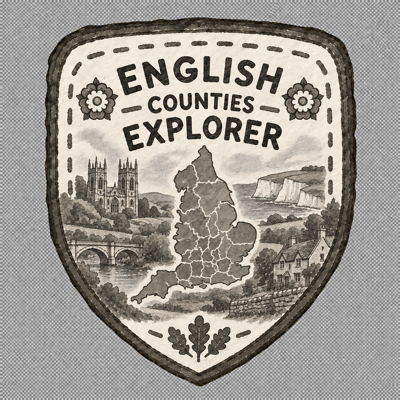
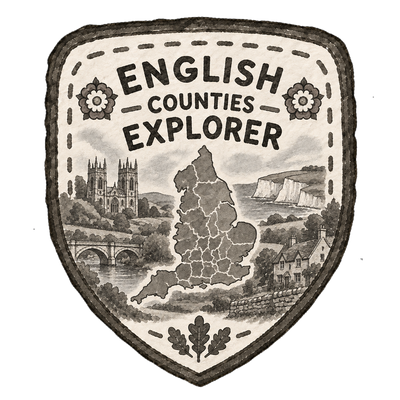
Strip opaque backgrounds from the five badges exported without alpha

diff --git a/badges/README.md b/badges/README.md
@@ -41,6 +41,12 @@ than fatal.
 The `main` branch, deliberately — this is unrelated to the `collections`
 migration, so the URL does not have to change when that merges.
 
-Downloads are cached to disk on the device and never re-fetched, because the
-filename is the identity. **Changing an image in place will not reach phones
-that already have it** — ship a redraw under a new id, or bump the filename.
+Downloads are cached to disk on the device, and the app revalidates each one
+once per launch with a conditional request. Replacing an image in place does
+reach phones that already have the old one — they pick it up on the next launch,
+with no reinstall. When nothing has changed the server answers 304 with no body.
+
+**Export with a transparent background.** Five of the first badges were exported
+opaque, which drew a grey box behind them in the app; their backgrounds were
+stripped after the fact, which works but softens the rim slightly compared to
+exporting it right.
